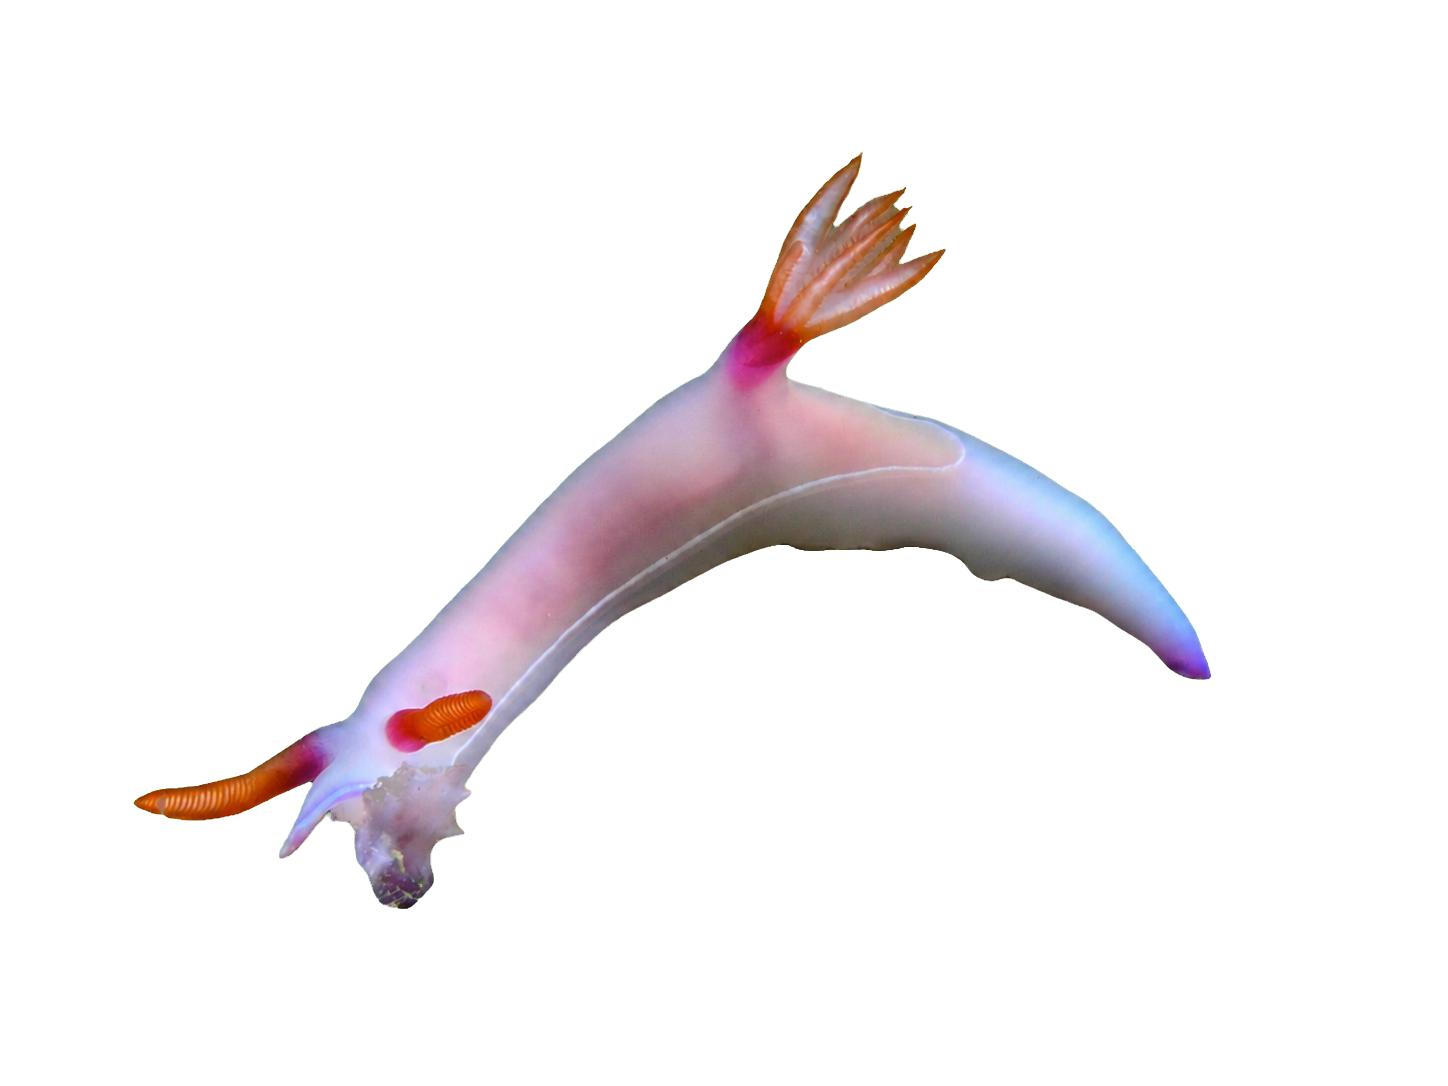
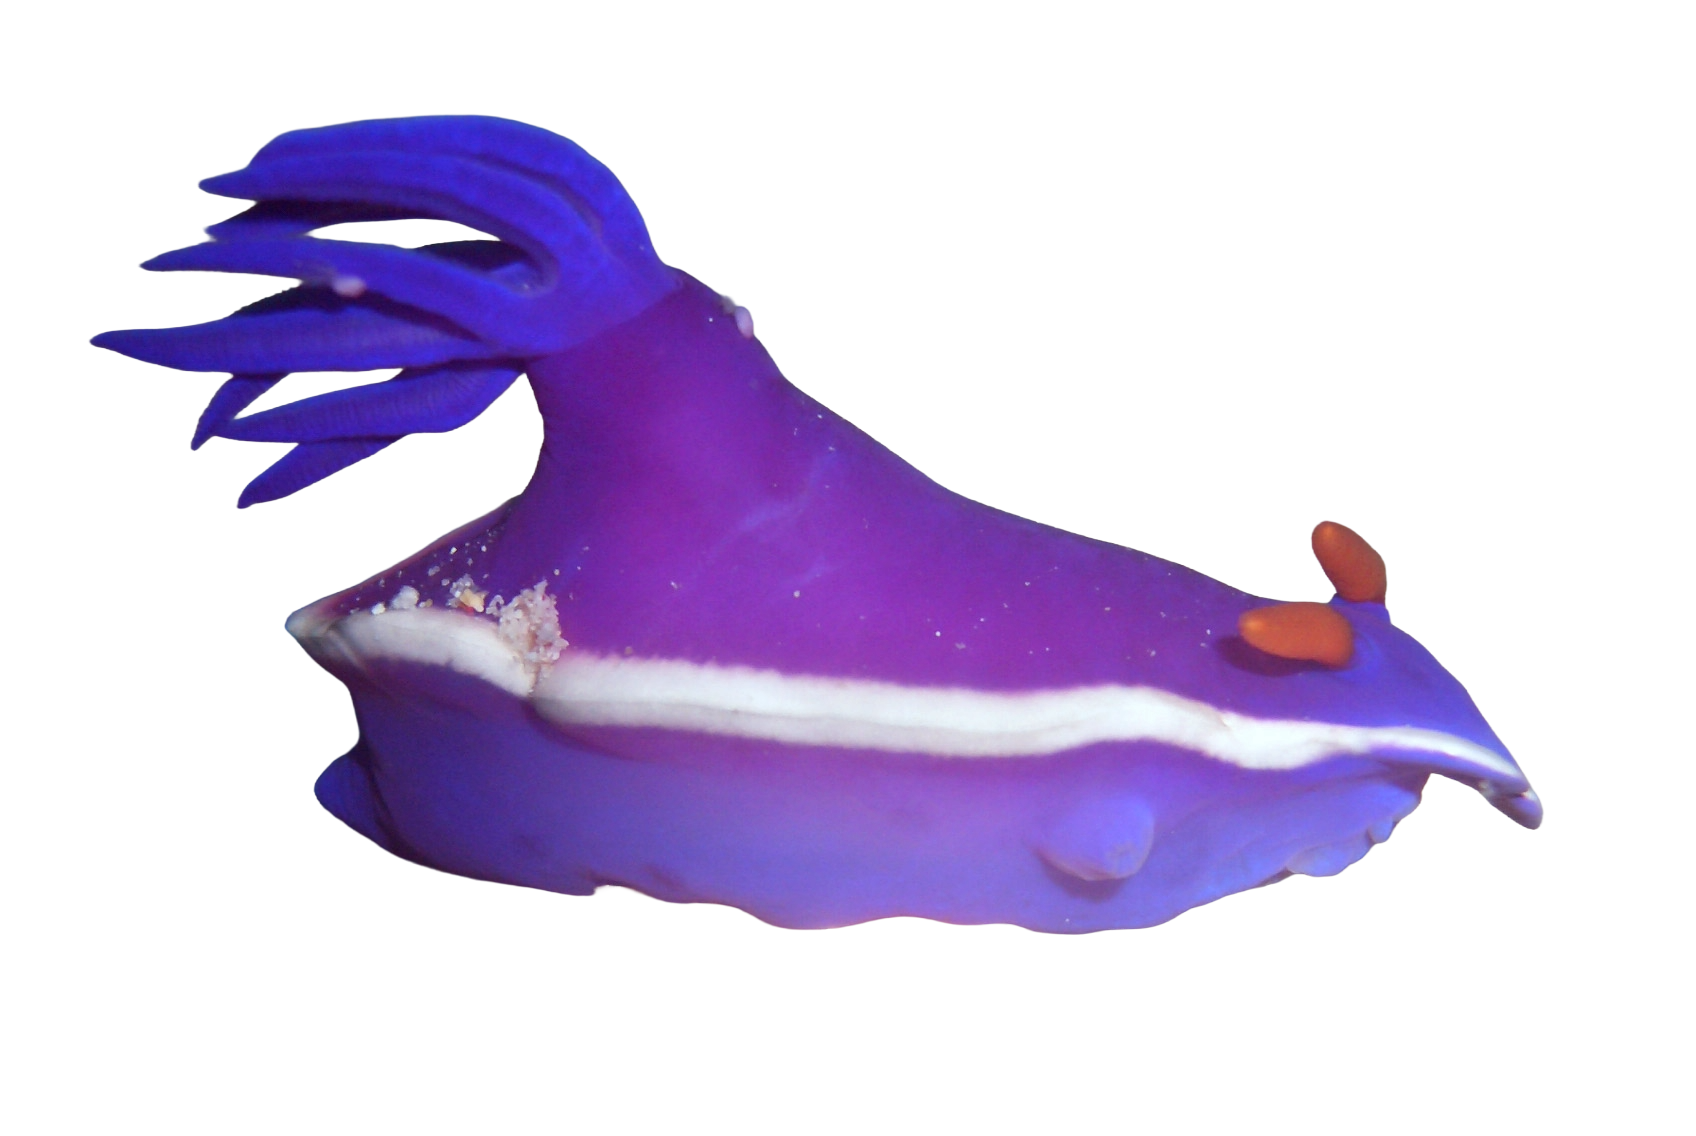
Add and verify new sea slug entries

diff --git a/app.js b/app.js
@@ -1,17 +1,164 @@
 const slugs = [
-  ['red', 'Spanish dancer', 'Hexabranchus sanguineus', 'Its broad mantle can ripple like a flamenco skirt, letting this nudibranch swim through the water.', 'spanish-dancer.png'],
-  ['orange', 'Orange gumdrop', 'Doriopsilla gemela', 'It grazes on sponges — and its cheerful orange skin warns predators that it may taste terrible.', 'orange-gumdrop.png'],
-  ['yellow', 'Yellow umbrella', 'Tylodina perversa', 'Like a tiny living umbrella, it carries a shell and specializes in eating yellow sea sponges.', 'yellow-umbrella.png'],
-  ['lemon', 'Sea lemon', 'Archidoris pseudoargus', 'Its bumpy, lemon-peel body helps it vanish against the sponges it loves to eat.', 'sea-lemon.png'],
-  ['green', 'Lettuce sea slug', 'Elysia crispata', 'It borrows chloroplasts from algae and keeps them working — a solar-powered animal!', 'lettuce-sea-slug.png'],
-  ['emerald', 'Eastern emerald elysia', 'Elysia chlorotica', 'It can survive for months using photosynthesis after stealing chloroplasts from its algal food.', 'eastern-emerald.png'],
-  ['mint', 'Leaf sheep', 'Costasiella kuroshimae', 'Its leaf-like cerata house borrowed chloroplasts, helping this slug harvest sunlight.', 'leaf-sheep.png'],
-  ['blue', 'Blue dragon', 'Glaucus atlanticus', 'It eats venomous Portuguese man o’ war and stores their stinging cells for its own defense.', 'blue-dragon.png'],
-  ['azure', "Loch's chromodoris", 'Chromodoris lochi', 'Its bright blue pattern advertises chemical defenses it gets from the sponges it eats.', 'lochs-chromodoris.png'],
-  ['violetblue', 'Blue dragon sea slug', 'Pteraeolidia ianthina', 'Its long, violet-tipped branches hold solar partners: symbiotic algae that share their energy.', 'pteraeolidia.png'],
-  ['purple', "Bullock's hypselodoris", 'Hypselodoris bullockii', 'Its lavender mantle is both a billboard and a bluff: it signals a bad-tasting chemical defense.', 'bullocks-hypselodoris.png'],
-  ['orchid', 'Purple hypselodoris', 'Hypselodoris apolegma', 'This reef wanderer carries a feathery gill plume on its back, where a shell would be on most snails.', 'purple-hypselodoris.png'],
-  ['rainbow', 'Rainbow sea slug', 'Babakina anadoni', 'Its glassy body flashes an entire spectrum — a fitting finale for the ocean’s tiny color laboratory.', 'rainbow-sea-slug.png']
+  {
+    hue: 'red',
+    name: 'Spanish dancer',
+    latin: 'Hexabranchus sanguineus',
+    fact: 'It escapes by flexing its broad mantle in powerful waves, swimming like a flamenco skirt in motion.',
+    image: 'spanish-dancer.png',
+    credit: 'Wikimedia Commons'
+  },
+  {
+    hue: 'coral',
+    name: 'Red-reticulate goniobranch',
+    latin: 'Goniobranchus cf. reticulatus',
+    fact: 'Its red lattice is a warning sign: chromodorids concentrate defensive chemicals from sponge prey around the mantle edge.',
+    image: 'red-reticulate-goniobranchus.png',
+    credit: 'user-supplied cutout'
+  },
+  {
+    hue: 'orange',
+    name: 'Orange gumdrop',
+    latin: 'Doriopsilla gemela',
+    fact: 'It grazes on sponges, and its saturated orange color warns predators that this soft-looking slug is chemically defended.',
+    image: 'orange-gumdrop.png',
+    credit: 'Wikimedia Commons'
+  },
+  {
+    hue: 'amber',
+    name: 'Orange berthella',
+    latin: 'Berthella aurantiaca',
+    fact: 'Its armor is hidden: a broad internal shell protects most of its organs beneath the glowing orange mantle.',
+    image: 'orange-berthella.png',
+    credit: 'user-supplied cutout'
+  },
+  {
+    hue: 'yellow',
+    name: 'Yellow umbrella',
+    latin: 'Tylodina perversa',
+    fact: 'Unlike most sea slugs, it keeps an umbrella-shaped external shell and matches the yellow sponges it eats.',
+    image: 'yellow-umbrella.png',
+    credit: 'Wikimedia Commons'
+  },
+  {
+    hue: 'gold',
+    name: 'Monterey dorid',
+    latin: 'Doris montereyensis',
+    fact: 'Its yellow, knobbly back mimics the color and texture of the sponges it specializes in eating.',
+    image: 'monterey-dorid.png',
+    credit: 'user-supplied iNaturalist cutout'
+  },
+  {
+    hue: 'lemon',
+    name: 'Sea lemon',
+    latin: 'Doris pseudoargus',
+    fact: 'Its lemon-peel texture camouflages it on sponge-covered reefs, while retractable gills and rhinophores tuck away from danger.',
+    image: 'sea-lemon.png',
+    credit: 'Wikimedia Commons'
+  },
+  {
+    hue: 'chartreuse',
+    name: 'Mediterranean oxynoe',
+    latin: 'Oxynoe olivacea',
+    fact: 'It turns an algal chemical into stronger oxytoxins—and can drop its toxin-loaded tail when attacked.',
+    image: 'oxynoe-olivacea.png',
+    credit: 'user-supplied cutout'
+  },
+  {
+    hue: 'green',
+    name: 'Lettuce sea slug',
+    latin: 'Elysia crispata',
+    fact: 'It steals chloroplasts from algae and keeps them photosynthesizing inside its leafy folds for months.',
+    image: 'lettuce-sea-slug.png',
+    credit: 'Wikimedia Commons'
+  },
+  {
+    hue: 'emerald',
+    name: 'Eastern emerald elysia',
+    latin: 'Elysia chlorotica',
+    fact: 'It keeps chloroplasts from Vaucheria algae working inside its cells—one of the longest-lasting cases of kleptoplasty.',
+    image: 'eastern-emerald.png',
+    credit: 'user-supplied cutout'
+  },
+  {
+    hue: 'mint',
+    name: 'Leaf sheep',
+    latin: 'Costasiella kuroshimae',
+    fact: 'It stores stolen algal chloroplasts inside its leaflike cerata, where they continue capturing light.',
+    image: 'leaf-sheep.png',
+    credit: 'Wikimedia Commons'
+  },
+  {
+    hue: 'blue',
+    name: 'Blue dragon',
+    latin: 'Glaucus atlanticus',
+    fact: 'It eats Portuguese men-of-war, sorts their unfired stinging cells, and packs the strongest into its own fingertips.',
+    image: 'blue-dragon.png',
+    credit: 'Wikimedia Commons'
+  },
+  {
+    hue: 'azure',
+    name: "Loch's chromodoris",
+    latin: 'Chromodoris lochi',
+    fact: 'Its electric-blue pattern advertises sponge-derived chemical defenses stored in glands along its mantle.',
+    image: 'lochs-chromodoris.png',
+    credit: 'Wikimedia Commons'
+  },
+  {
+    hue: 'iceblue',
+    name: "Willan's chromodoris",
+    latin: 'Chromodoris willani',
+    fact: 'White speckles on its gills and rhinophores act like a fingerprint, separating it from nearly identical blue relatives.',
+    image: 'willans-chromodoris.png',
+    credit: 'user-supplied cutout'
+  },
+  {
+    hue: 'violetblue',
+    name: 'Blue dragon nudibranch',
+    latin: 'Pteraeolidia ianthina',
+    fact: 'It farms photosynthetic algae inside its body and stores stolen stinging cells in the tips of its cerata.',
+    image: 'pteraeolidia.png',
+    credit: 'user-supplied cutout'
+  },
+  {
+    hue: 'magenta',
+    name: 'Purple flabellina',
+    latin: 'Flabellina affinis',
+    fact: 'It eats stinging hydroids without firing their weapons, then stores the stolen stinging cells in its cerata for defense.',
+    image: 'purple-flabellina.png',
+    credit: 'user-supplied cutout'
+  },
+  {
+    hue: 'purple',
+    name: "Bullock's hypselodoris",
+    latin: 'Hypselodoris bullockii',
+    fact: 'Its vivid mantle is an honest warning: defensive compounds from sponge prey are packed into glands around its edge.',
+    image: 'bullocks-hypselodoris.png',
+    credit: 'user-supplied cutout'
+  },
+  {
+    hue: 'orchid',
+    name: 'Purple hypselodoris',
+    latin: 'Hypselodoris apolegma',
+    fact: 'It turns sponge chemistry into protection, concentrating dietary compounds in specialized mantle glands.',
+    image: 'purple-hypselodoris.png',
+    credit: 'Wikimedia Commons'
+  },
+  {
+    hue: 'fairy',
+    name: 'Fairy butterfly sea slug',
+    latin: 'Cyerce elegans',
+    fact: 'When danger strikes, it can cast off its leaflike cerata; the sticky, writhing decoys distract a predator while it escapes.',
+    image: 'fairy-butterfly.png',
+    credit: 'user-supplied cutout'
+  },
+  {
+    hue: 'rainbow',
+    name: 'Rainbow sea slug',
+    latin: 'Babakina anadoni',
+    fact: 'Like other aeolids, it routes its digestive gland through its cerata and arms their tips with stinging cells taken from prey.',
+    image: 'rainbow-sea-slug.png',
+    credit: 'Wikimedia Commons'
+  }
 ];
 
 const root = document.querySelector('#root');
@@ -28,7 +175,7 @@ const main = root.querySelector('main');
 const collection = root.querySelector('#collection');
 const colorline = root.querySelector('.colorline');
 
-slugs.forEach(([hue, name, latin, fact, image], index) => {
+slugs.forEach(({ hue, name, latin, fact, image, credit }, index) => {
   const id = `slug-${index}`;
   const button = document.createElement('button');
   button.type = 'button';
@@ -42,13 +189,13 @@ slugs.forEach(([hue, name, latin, fact, image], index) => {
   article.className = 'slug';
   article.id = id;
   article.dataset.index = index;
-  article.innerHTML = `<div class="wash"></div><figure class="photo"><img src="images/slugs-cutout/${image}" alt="Photograph of ${name}" loading="${index < 2 ? 'eager' : 'lazy'}" width="1600" height="1100"><figcaption>real reef photograph · Wikimedia Commons</figcaption></figure><div class="copy"><p class="number">${String(index + 1).padStart(2, '0')} · ${hue}</p><h2>${name}</h2><p class="latin">${latin}</p><ul><li><b>SUPERPOWER</b></li><li>${fact}</li></ul></div>`;
+  article.innerHTML = `<div class="wash"></div><figure class="photo"><img src="images/slugs-cutout/${image}" alt="Photograph of ${name}" loading="${index < 2 ? 'eager' : 'lazy'}" width="1600" height="1100"><figcaption>real animal · ${credit}</figcaption></figure><div class="copy"><p class="number">${String(index + 1).padStart(2, '0')} · ${hue}</p><h2>${name}</h2><p class="latin">${latin}</p><ul><li><b>SUPERPOWER</b></li><li>${fact}</li></ul></div>`;
   collection.append(article);
 });
 
 const buttons = [...colorline.querySelectorAll('button')];
 const setActive = (index) => {
-  main.style.setProperty('--accent', `var(--${slugs[index][0]})`);
+  main.style.setProperty('--accent', `var(--${slugs[index].hue})`);
   root.querySelector('.counter').textContent = `${String(index + 1).padStart(2, '0')} / ${String(slugs.length).padStart(2, '0')}`;
   buttons.forEach((button, buttonIndex) => button.classList.toggle('on', buttonIndex === index));
 };

diff --git a/style.css b/style.css
@@ -8,17 +8,24 @@
 
 :root {
   --red: #e63836;
+  --coral: #e95343;
   --orange: #f17b26;
+  --amber: #ee9a26;
   --yellow: #f1ca35;
+  --gold: #e7b833;
   --lemon: #d6d73b;
+  --chartreuse: #a8bd36;
   --green: #63a86e;
   --emerald: #298b65;
   --mint: #9ed5a7;
   --blue: #3982d5;
   --azure: #3796bb;
+  --iceblue: #72a9cf;
   --violetblue: #626ac8;
+  --magenta: #9667bb;
   --purple: #a46bbc;
   --orchid: #d78abe;
+  --fairy: #cf7db8;
   --rainbow: #e68b8e;
 }
 
@@ -157,17 +164,24 @@ header {
     linear-gradient(
       to bottom,
       color-mix(in srgb, var(--red) 28%, #f5f0e9) 0%,
-      color-mix(in srgb, var(--orange) 28%, #f5f0e9) 8.33%,
-      color-mix(in srgb, var(--yellow) 28%, #f5f0e9) 16.66%,
-      color-mix(in srgb, var(--lemon) 28%, #f5f0e9) 25%,
-      color-mix(in srgb, var(--green) 28%, #f5f0e9) 33.33%,
-      color-mix(in srgb, var(--emerald) 28%, #f5f0e9) 41.66%,
-      color-mix(in srgb, var(--mint) 28%, #f5f0e9) 50%,
-      color-mix(in srgb, var(--blue) 28%, #f5f0e9) 58.33%,
-      color-mix(in srgb, var(--azure) 28%, #f5f0e9) 66.66%,
-      color-mix(in srgb, var(--violetblue) 28%, #f5f0e9) 75%,
-      color-mix(in srgb, var(--purple) 28%, #f5f0e9) 83.33%,
-      color-mix(in srgb, var(--orchid) 28%, #f5f0e9) 91.66%,
+      color-mix(in srgb, var(--coral) 28%, #f5f0e9) 5.26%,
+      color-mix(in srgb, var(--orange) 28%, #f5f0e9) 10.53%,
+      color-mix(in srgb, var(--amber) 28%, #f5f0e9) 15.79%,
+      color-mix(in srgb, var(--yellow) 28%, #f5f0e9) 21.05%,
+      color-mix(in srgb, var(--gold) 28%, #f5f0e9) 26.32%,
+      color-mix(in srgb, var(--lemon) 28%, #f5f0e9) 31.58%,
+      color-mix(in srgb, var(--chartreuse) 28%, #f5f0e9) 36.84%,
+      color-mix(in srgb, var(--green) 28%, #f5f0e9) 42.11%,
+      color-mix(in srgb, var(--emerald) 28%, #f5f0e9) 47.37%,
+      color-mix(in srgb, var(--mint) 28%, #f5f0e9) 52.63%,
+      color-mix(in srgb, var(--blue) 28%, #f5f0e9) 57.89%,
+      color-mix(in srgb, var(--azure) 28%, #f5f0e9) 63.16%,
+      color-mix(in srgb, var(--iceblue) 28%, #f5f0e9) 68.42%,
+      color-mix(in srgb, var(--violetblue) 28%, #f5f0e9) 73.68%,
+      color-mix(in srgb, var(--magenta) 28%, #f5f0e9) 78.95%,
+      color-mix(in srgb, var(--purple) 28%, #f5f0e9) 84.21%,
+      color-mix(in srgb, var(--orchid) 28%, #f5f0e9) 89.47%,
+      color-mix(in srgb, var(--fairy) 28%, #f5f0e9) 94.74%,
       color-mix(in srgb, var(--rainbow) 28%, #f5f0e9) 100%
     );
 }
